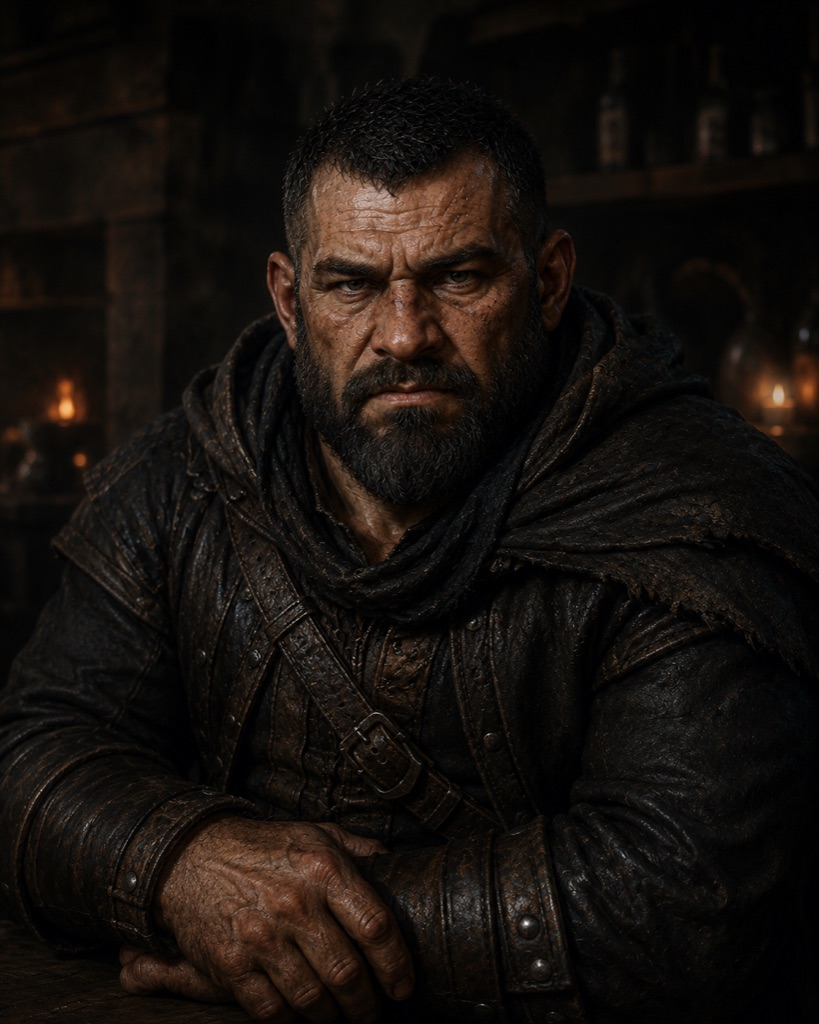
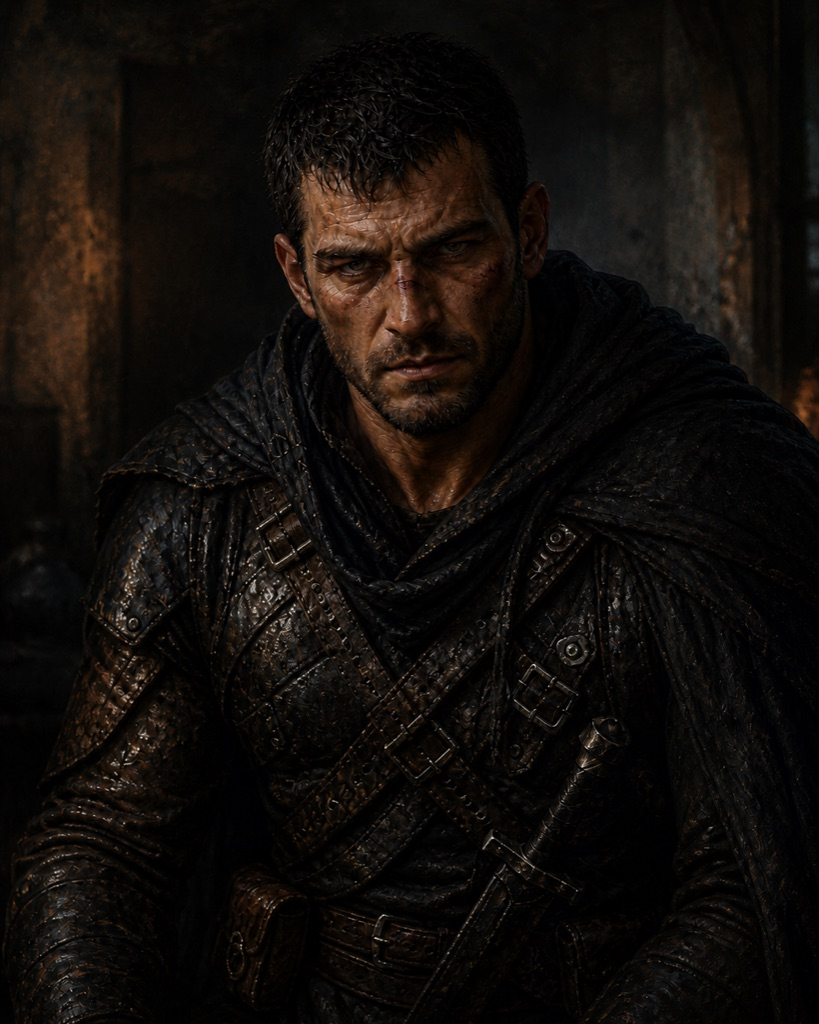
Session 1 (Knaves and Knights): The Manifesto — June 2nd, 2026
Add S1 recap + entities. New: Sorvellans (Kelvaryn, Vendris), House Sorvellan,
La Marginalia, Cobalt, Bobilliath, Celeste, Thrall, Sage, Nonna Battaglia,
Brimstone Bath, Halworth Reading Rooms, College of Divination. Cross-linked PCs.
Garran reworked Dwarf -> Human; new Garran portrait; Ralo + Lucien token portraits.

diff --git a/src/content/recaps/rifthaven-2-session-01.md b/src/content/recaps/rifthaven-2-session-01.md
@@ -1,0 +1,48 @@
+---
+name: "Rifthaven: Knaves and Knights Session 1 — June 2nd, 2026"
+campaign: rifthaven-2
+session_number: 1
+session_date: "June 2nd, 2026"
+author: PaleoDM
+recap_type: dm
+in_game_date: "22nd of Ioun, 1130"
+level_milestone: 3
+arc_name: "The Manifesto"
+vtt_campaign_id: "559871a1-573f-4367-9a16-5a3117a19840"
+tags: [session-one, the-manifesto, heist]
+related: [rifthaven-2, milo-lafite-margeaux, garran, ralo-battaglia, lucien, astrid, kelvaryn-sorvellan, vendris-sorvellan, la-marginalia, house-sorvellan, cobalt, bobilliath, celeste, thrall, sage, nonna-battaglia, brimstone-bath, halworth-reading-rooms, college-of-divination, da-pinci-syndicate, rifthaven]
+---
+
+We opened cold, before we ever met our heroes.
+
+A luxury fighting arena. The rich and the elite up in the boxes, gambling and politicking over their drinks while the crowd roared below. Outside, in the same afternoon light, a young boy was being hanged. Petty larceny, theft, general skulduggery. Rifthaven's regular business. A young scoundrel watched it happen, and an older, wiser hand watched beside him. The boy had been fast, fast enough that nobody should have caught him. The old scoundrel had a different read. "You've always got to stick to the plan, lad. And always bloody communicate. You can't go thinking you're bigger than the crew."
+
+Two rules. The boy on the rope learned'em the hard way.
+
+From there we cut to our heroes, one at a time.
+
+Garran was drinking with a mutual acquaintance, a dwarf with an orange beard and hair named Bobilliath, Bobbi for short. They traded light banter and then got to business, chewing over the strange arcane contraption that had come up out of the Rift, the one that can forge a man's handwriting perfectly. Both of them needed work. Bobbi had heard a job was going down at a bathhouse, the Brimstone Bath, though he couldn't say whether the job was happening there or whether that was just where you went to hear about it. They decided to work it on a buddy system and go together.
+
+Astrid was at her day job, tending her toucans and her chinchillas. Her neighbor came in, a gnomish woman named Celeste who owns the bodega across the way. Celeste talked down to her a little, the way she always does, because she has no idea Astrid's divination is the real thing. Celeste is an astrology junkie. She thinks Astrid's whole act is a sad imitation of her own. She did pass along news worth having. The College of Divination was bleeding members, enough that her own accepted place had to wait. One of the professors had gone missing. Celeste was convined that finding that professor would be her entrance exam. Meanwhile, Astrid was reading a message about a job down at the Brimstone Bath...
+
+Milo was nursing a hangover he is not at all used to. Five centuries a vampire and now he has to drink water like everybody else. His manservant, who insists on being called only Thrall, was there to suffer it with him. The two of them bickered about the water and about the old life neither of them has quite let go. Eventually the talk turned to a job, also at the Brimstone Bath. Milo agreed to go, on the condition that Thrall go ahead and arrange for a patron to invite him in. He does not enter a place uninvited. He told Thrall to go on while he counted to a thousand, who pointedly reminded him that last time Milo tried to count to a thousand he became uncomfortably aware of his own heartbeat. There was a small tantrum.
+
+Lucien was in a more genteel tavern, very well dressed, when a former colleague found him. Sage. Elegant, beautiful, every hair in place. She had a lead she did not care to work herself, the kind of thing she will not dirty her sleeves on. An elderly woman named Nonna Battaglia had come to her about a legal challenge, a mutually agreed separation involving her adult son. Sage was loath to touch it because the Battaglia boy is tangled up with the da Pinci family and she does not meddle in those things. Lucien cut straight to the real shape of the problem. What the boy actually needed was help with his brand and his identity, and that is precisely Lucien's wheelhouse. Sage was glad to have handed it to someone who got it. The Battaglia boy would be waiting at the Brimstone Bath.
+
+And Ralo was in his mother's kitchen, mostly arguing. She wanted a new tennis bracelet and a son who provided better. He pointed out that his four brothers still live at home and contribute nothing. They got into his estranged wife, his petulant little shit of a son, when you follow a recipe and when you don't. They settled nothing. Ralo was livid to learn his Nonna had been soliciting lawyers on his behalf behind his back. She begged and begged him to at least go meet the man at the Brimstone Bath. He reluctantly agreed.
+
+So they all came to the same room, for different reasons. Garran, Astrid, and Milo were there chasing the job. Ralo and Lucien were there for the other business entirely.
+
+Garran and Astrid fell in with Bobbi over a drink, Astrid handling the talking, since communication is her specialty. Demolition too, on occasion, but mostly communication. That is the bread and butter. Across the room, Lucien tried to open his pitch to Ralo and it went nowhere. Ralo had no interest in being represented. He was, however, delighted to report that he had seen Lucien's advertisement in the urinal at Bennigan's, and that the likeness was fantastic, and that the ad clearly worked because here he was remembering the product. Lucien could not tell if he was being trolled. He did not enjoy it either way. About then Thrall arrived and asked Astrid to invite his master in, which she did, and Milo made his entrance.
+
+Then our quest-givers walked in. The Sorvellans, father and son, Kelvaryn and Vendris. The bouncers seemed to be expecting them, and for a moment it looked like the two of them were about to get roughed up. Our heroes moved to intervene. Milo and Lucien are the charming ones, but it was Garran who stepped up, cajoling and leaning on the bouncers until they backed down. That brought out the proprietor herself. Cobalt, a tiefling who runs a tight, neutral house in the turf wars. She recognized Ralo and assumed he was there to pull a job on her. There was a great deal of arguing. It came out that the Sorvellans were simply idiots who hadn't known they were supposed to pay the house to host their meeting. Cobalt had heard there was a job at the Brimstone Bath and, like everyone else, couldn't tell whether that meant a job against the Brimstone Bath. She'd had her bouncers ready. Once the misunderstanding cleared, a couple of coins changed hands, Astrid's coins as it happened, and the party got one of the quiet private rooms on the side.
+
+There the Sorvellans laid out the work. Documents of a personal nature, written by the young master in youthful indiscretion, taken by a woman who had been close to him when she had been his private tutor. They need to be recovered before they reach unkind hands. Kelvaryn would not say much, but he gave up enough. The documents are politically a bad look, and they cannot be allowed to surface, with him set to step into his family's council seat. The woman who took them goes by La Marginalia, though no one offered a real name behind it. Beyond that he held the line. And he was firm on one rule. The documents, bearing his own seal, must be returned before they hit the broadsheet printers. That was the line that made the whole thing feel sensitive. Lucien was in his element, talking through how he'd draft the contract so every term landed just right.
+
+Then the haggling. The Sorvellans offered a hundred gold a head. Our heroes countered at three hundred. They settled at two hundred a head, which, as Garran quietly reminded everyone, is a staggering sum for a crew that is level three. "Holy shit, we have to say yes to that." So naturally they called a huddle and made a show of driving a hard bargain, and in the middle of that huddle, faces close together, they introduced themselves to one another for the first time. Then they took the job.
+
+The Sorvellans lingered, neither willing to be the first one out the door. Lucien finally escorted them. They got as far as the back alley before someone tried to mug them, and our heroes had to step in one more time. Lucien dropped a well-placed Suggestion. Garran and Milo backed it with some genuinely frightening intimidation. Astrid laid down heavy supporting fire on the first round, and Ralo wrecked the man running the whole thing. It did not last past the first round. Several of the muggers turned tail and ran, the Sorvellans were safe, and that was that.
+
+Our heroes walked back into the Brimstone Bath to finish their game of cards and actually get to know each other before the real work begins. Tomorrow they pick up La Marginalia's trail and follow it to the Halworth Reading Rooms, hoping it leads them to the young master Sorvellan's missing papers.
+
+A crew of strangers, two hundred gold a head, and a job that nobody will explain. Not a bad first day.

diff --git a/INDEX.md b/INDEX.md
@@ -1,14 +1,15 @@
 # Ioun's Eye — Codex Index
 <!-- Auto-generated. Do not edit manually. Run `npm run index` to regenerate. -->
-<!-- Last updated: 2026-05-27 -->
+<!-- Last updated: 2026-06-06 -->
 
-## NPCs (143)
+## NPCs (152)
 - `ambrosia` Ambrosia — alive | Guardian of the Restful Lily | [ishetar-2]
 - `arianna-wintar` Arianna Margaster Wintar — imprisoned | High Magister of Kalari
 - `badger-goldenmantle` Badger Goldenmantle — alive
 - `bessa` Bessa — dead | Headservant of Manor Harsk | [ishetar-2]
 - `bilver-shadowgift` Bilver Shadowgift — dead | Former Researcher
 - `biotite` Biotite — unknown | [skt]
+- `bobilliath` Bobilliath — alive | \"Bobbi\"
 - `boreal` Boreal — alive
 - `bran-caldrow` Bran Caldrow — alive | [ishetar-2]
 - `breccia` Breccia — imprisoned | Temple Acolyte
@@ -24,9 +25,11 @@
 - `captain-shara` Captain Shara — alive | Captain
 - `carmen-de-la-alma` Carmen De la Alma — alive
 - `cecil-perile` Cecil Perile — alive | Mayor of New Perile Falls
+- `celeste` Celeste — alive
 - `celia-varynna` Celia Varynna — transformed
 - `chief-guuh` Chief Guuh — dead | Chief of the Hill Giants | [skt]
 - `cliff-tyrell` Cliff — alive | Ty's Father
+- `cobalt` Cobalt — alive
 - `karash` Constable Karash — alive | Constable of New Perile Falls
 - `cyrena` Cyrena — alive | Guardian of the Hot Springs | [ishetar-2]
 - `dalrick-caldrow` Dalrick Caldrow — alive | [ishetar-2]
@@ -70,9 +73,11 @@
 - `jerusha` Jerusha — alive
 - `jora-caldrow` Jora Caldrow — alive | Armory Manager | [ishetar-2]
 - `keeper-vespa-ishetar` Keeper Vespa — alive | Lighthouse Keeper | [ishetar-2]
+- `kelvaryn-sorvellan` Kelvaryn Sorvellan — alive | Patriarch of House Sorvellan
 - `kess-vauthi` Kess Vauthi — alive | Acting Timbermaster | [ishetar-2]
 - `hekkathon` King Hekkathon — alive | King of the Storm Giants | [skt]
 - `kivan-caldrow` Kivan Caldrow — alive | [ishetar-2]
+- `la-marginalia` La Marginalia — missing | The Tutor
 - `lisel-harsk` Lisel Harsk — alive | [ishetar-2]
 - `little-shit` Little Shit — alive
 - `lord-harwin` Lord Harwin Brassfell — alive | Lord of Sparkworks
@@ -94,6 +99,7 @@
 - `mynoa-browbuckle` Mynoa Browbuckle — alive
 - `nanny-pupu` Nanny Pu'Pu — alive | Guardian of Boughshadow
 - `nighthollow` Nighthollow — alive | Queen of Thorns
+- `nonna-battaglia` Nonna Battaglia — alive | Ralo's Mother
 - `officer-oswald` Officer Oswald — dead | Silverweave Ventures Commander
 - `old-hrothgar` Old Hrothgar Earthenstone — alive | Founding Member of Ishetar | [ishetar-2, ishetar-og]
 - `oleg-cassini` Oleg Cassini — dead | Co-Head of the Cassini Brothers
@@ -112,6 +118,7 @@
 - `romero-de-la-alma` Romero De la Alma — alive
 - `rosie` Rosie — alive | Guardian of the Tree of Ambition
 - `runva-doberdower` Runva Doberdower — unknown
+- `sage` Sage — alive
 - `sallow` Sallow — dead | Lieutenant of the TTT | [ishetar-2]
 - `sartori` Sartori — alive | Arcane Outfitter
 - `scourge` Scourge — alive | Plague of the Willows
@@ -133,10 +140,12 @@
 - `great-self` The Great Self — alive | Fungal Hive Mind
 - `the-paintress` The Paintress — alive
 - `the-pallbearer` The Pallbearer — alive | Darklord of Potter's Field
+- `thrall` Thrall — alive | Milo's Manservant
 - `tota-de-la-alma` Tota De la Alma — alive | Matriarch
 - `udo` Udo — alive | Stablemaster of Manor Harsk | [ishetar-2]
 - `vandro-morrix` Vandro Morrix — dead | Owner of the Gilded Ember
 - `vanir-harwich` Vanir Harwich — unknown
+- `vendris-sorvellan` Vendris Sorvellan — alive | Heir to House Sorvellan
 - `verlaine-luthaire` Verlaine Luthaire — missing | Agent of the Celestial Seed | [ishetar-2]
 - `vero` Vero — alive | Alchemist | [ishetar-2]
 - `vespa` Vespa — dead
@@ -147,7 +156,7 @@
 - `zeke` Zeke — alive
 - `zoink` Zoink — alive | Banker | [ishetar-2]
 
-## Locations (72)
+## Locations (75)
 - `ahanabai` Ahanabai — region | [ishetar-2]
 - `aroiinae` Aroiinae — city | [ishetar-2]
 - `ashen-chapel` Ashen Chapel — building | [rifthaven-online]
@@ -194,7 +203,7 @@
 - `poets-point` Poet's Point — city | Kalari
 - `potters-field` Potter's Field — planar | [rifthaven-online]
 - `prusca` Prusca — city | [ishetar-2]
-- `rifthaven` Rifthaven — city | [rifthaven-irl, rifthaven-online]
+- `rifthaven` Rifthaven — city | [rifthaven-irl, rifthaven-online, rifthaven-2]
 - `salvation-district` Salvation District — district | [rifthaven-online]
 - `serenity-auction-house` Serenity Auction House — building | [rifthaven-irl]
 - `sergente-plantation` Sergente Plantation — building | [rifthaven-online]
@@ -207,10 +216,13 @@
 - `amber-expanse` The Amber Expanse — wilderness | Cradle of Conflict | [skt]
 - `the-bastion-sparkworks` The Bastion — building | [rifthaven-online]
 - `brazier` The Brazier — district | [rifthaven-online]
+- `brimstone-bath` The Brimstone Bath — building
+- `college-of-divination` The College of Divination — building
 - `cradle-of-conflict` The Cradle of Conflict — region | [skt]
 - `the-crucible` The Crucible — region | [skt]
 - `fractured-expanse` The Fractured Expanse — wilderness | Ekkorai | [head-hunters]
 - `the-galleria` The Galleria — planar | [rifthaven-online]
+- `halworth-reading-rooms` The Halworth Reading Rooms — building
 - `red-vale` The Red Vale — wilderness | Ekkorai | [ishetar-2]
 - `restful-lily` The Restful Lily — building | Ekkorai | [ishetar-2]
 - `tormellin` Tormellin — city | [ishetar-2]
@@ -221,13 +233,14 @@
 - `verdelorn-woods` Verdelorn Woods — wilderness | [rifthaven-irl]
 - `wanun` Wanun — continent | [ishetar-og, head-hunters, ishetar-2]
 
-## Factions (28)
+## Factions (29)
 - `aquatic-conclave` Aquatic Peoples Conclave — political | active | [ishetar-2]
 - `arsons-of-anarchy` Arsons of Anarchy — religious | active | [head-hunters]
 - `celestial-seed` Celestial Seed — secret | active | [ishetar-2]
 - `children-of-the-defiled-sun` Children of the Defiled Sun — religious | active | [head-hunters]
 - `earthen-loam` Earthen Loam — secret | active | [rifthaven-online]
 - `house-of-coinwrights` House of Coinwrights — commercial | active | [rifthaven-online]
+- `house-sorvellan` House Sorvellan — political | active
 - `knights-of-the-eclipse` Knights of the Eclipse — religious | active | [ishetar-2, kalari]
 - `leviathan-hunters` Leviathan Hunters — commercial | active | [ishetar-2]
 - `order-of-the-ju-shi` Order of the Ju-Shi — religious | active | [rifthaven-irl, rifthaven-online]
@@ -371,7 +384,7 @@ _No entries yet._
 - `elmnack` Elmnack — Dwarf | Ranger | kalari | [kalari]
 - `even` Even — Goliath | Druid | rifthaven-irl | [rifthaven-irl]
 - `freddie` Freddie — Sea Elf | Cleric | rifthaven-online | [rifthaven-online]
-- `garran` Garran — Dwarf | Ranger | rifthaven-2 | [rifthaven-2]
+- `garran` Garran — Human | Ranger | rifthaven-2 | [rifthaven-2]
 - `griffelump` Griffelump — Tabaxi | Wizard | ishetar-og | [ishetar-og]
 - `gwenevere` Gwenevere — Eladrin | Sorcerer | kalari | [kalari]
 - `izlara` Izlara — Human | Ranger | head-hunters | [head-hunters]

diff --git a/src/content/npcs/kelvaryn-sorvellan.md b/src/content/npcs/kelvaryn-sorvellan.md
@@ -1,0 +1,19 @@
+---
+name: Kelvaryn Sorvellan
+status: alive
+title: Patriarch of House Sorvellan
+race: Silver Dragonborn
+faction: house-sorvellan
+location: rifthaven
+campaigns:
+  - rifthaven-2
+first_appearance: "Knaves and Knights, Session 1"
+tags: [noble, old-money, patron, the-manifesto]
+related: [house-sorvellan, vendris-sorvellan, la-marginalia, brimstone-bath, rifthaven-2, rifthaven-2-session-01]
+---
+
+Silver dragonborn patriarch of **House Sorvellan**, old money with the rot of generations of unchecked entitlement. He hired the crew at the **Brimstone Bath** to recover a set of compromising documents written by his son **Vendris** in youthful indiscretion.
+
+Kelvaryn performs dignity in rooms he does not understand. He would not say much, but he gave up enough: the documents are politically a bad look and cannot be allowed to surface, with Vendris set to step into the family's council seat. The woman who took them goes by **La Marginalia**. His firm rule — the papers, bearing his own seal, must be returned before they reach the broadsheet printers.
+
+He treats scoundrels with veiled disgust, and pays anyway. The job came in at 200 gold a head.

diff --git a/src/content/locations/brimstone-bath.md b/src/content/locations/brimstone-bath.md
@@ -1,0 +1,17 @@
+---
+name: The Brimstone Bath
+location_type: building
+parent_location: rifthaven
+campaigns:
+  - rifthaven-2
+tags: [bath-house, neutral-ground, underworld, working-class]
+related: [cobalt, rifthaven, rifthaven-2, rifthaven-2-session-01]
+---
+
+## Description
+
+A working-class bath house in Rifthaven that services rough laborers on their way home from a hard shift, with a bar and smokes for the ones who don't rush off. Run by the tiefling **Cobalt**, who keeps it as neutral ground in the city's turf wars. The back rooms are available for private meetings — *if* you know to pay the house for them.
+
+## Knaves and Knights, Session 1
+
+The whole crew converged here for different reasons — some chasing a job, some there on other business — and met their first patrons, the **Sorvellans**, who hired them to recover Vendris's compromising documents. The Sorvellans' failure to pay for their private room nearly turned into a brawl with Cobalt's bouncers before it was talked down. The party closed the night here over a game of cards.

diff --git a/src/content/factions/house-sorvellan.md b/src/content/factions/house-sorvellan.md
@@ -1,0 +1,15 @@
+---
+name: House Sorvellan
+faction_type: political
+status: active
+leader: kelvaryn-sorvellan
+headquarters: rifthaven
+campaigns:
+  - rifthaven-2
+tags: [noble-house, old-money, council-seat, the-manifesto]
+related: [kelvaryn-sorvellan, vendris-sorvellan, la-marginalia, rifthaven, rifthaven-2, rifthaven-2-session-01]
+---
+
+An old-money noble house of Rifthaven, silver dragonborn, carrying the rot of generations of unchecked entitlement. Led by the patriarch **Kelvaryn Sorvellan**, with his son and heir **Vendris** set to step into the family's hereditary council seat.
+
+The house's first appearance drives the arc **The Manifesto**: a set of politically damaging documents written by Vendris in his youth, bearing his own seal, was taken by the woman known as **La Marginalia**. The Sorvellans hired the crew at the **Brimstone Bath** to recover them before they reach the broadsheet printers — 200 gold a head, no advance.

diff --git a/src/content/npcs/vendris-sorvellan.md b/src/content/npcs/vendris-sorvellan.md
@@ -1,0 +1,17 @@
+---
+name: Vendris Sorvellan
+status: alive
+title: Heir to House Sorvellan
+race: Silver Dragonborn
+faction: house-sorvellan
+location: rifthaven
+campaigns:
+  - rifthaven-2
+first_appearance: "Knaves and Knights, Session 1"
+tags: [noble, heir, council-seat, the-manifesto, honeypot]
+related: [house-sorvellan, kelvaryn-sorvellan, la-marginalia, rifthaven-2, rifthaven-2-session-01]
+---
+
+The adult son and heir of **House Sorvellan**, silver dragonborn, recently of age and set to step into the family's hereditary council seat. As a younger man he wrote a set of documents — politically a bad look — that were taken by **La Marginalia**, a woman who had been close to him when she served as his private tutor.
+
+Vendris attended the hire at the **Brimstone Bath** alongside his father **Kelvaryn**. Earnest and out of his depth among scoundrels. The documents that could destroy his appointment bear his own seal.

diff --git a/src/content/npcs/sage.md b/src/content/npcs/sage.md
@@ -1,0 +1,14 @@
+---
+name: Sage
+status: alive
+location: rifthaven
+campaigns:
+  - rifthaven-2
+first_appearance: "Knaves and Knights, Session 1"
+tags: [fixer, broker, former-colleague, white-collar]
+related: [lucien, nonna-battaglia, da-pinci-syndicate, rifthaven-2, rifthaven-2-session-01]
+---
+
+A former colleague of **Lucien**'s — elegant, beautiful, every hair in place, and unwilling to dirty her sleeves on the wrong kind of work. She brokers leads she does not care to run herself.
+
+She handed Lucien the **Battaglia** matter: **Nonna Battaglia** had come to her seeking help with a legal challenge around her son's mutually agreed separation. Sage was loath to touch it because the Battaglia boy is tangled up with the **da Pinci** family. She was glad to pass it to someone who understood the real shape of the problem — the boy's brand and identity — and sent Lucien to the **Brimstone Bath** to meet him.

diff --git a/src/content/npcs/cobalt.md b/src/content/npcs/cobalt.md
@@ -1,0 +1,16 @@
+---
+name: Cobalt
+status: alive
+race: Tiefling
+location: rifthaven
+faction: brimstone-bath
+campaigns:
+  - rifthaven-2
+first_appearance: "Knaves and Knights, Session 1"
+tags: [proprietor, neutral-ground, brimstone-bath, underworld]
+related: [brimstone-bath, ralo-battaglia, rifthaven-2, rifthaven-2-session-01]
+---
+
+Tiefling proprietor of the **Brimstone Bath**, a working-class bath house she runs as neutral ground in the city's turf wars. Pragmatic and unflappable, she keeps a tight room and a ready set of bouncers.
+
+When the Sorvellans turned up at her bath without paying for use of a private meeting room, Cobalt assumed she was being hit — she recognized **Ralo Battaglia** and figured a job was being pulled on her. The misunderstanding was talked down, a couple of coins (Astrid's, as it happened) changed hands, and the party got their private room. Cobalt remembers faces and debts.

diff --git a/src/content/npcs/nonna-battaglia.md b/src/content/npcs/nonna-battaglia.md
@@ -1,0 +1,17 @@
+---
+name: Nonna Battaglia
+status: alive
+title: Ralo's Mother
+race: Halfling
+location: rifthaven
+faction: da-pinci-syndicate
+campaigns:
+  - rifthaven-2
+first_appearance: "Knaves and Knights, Session 1"
+tags: [family, matriarch, da-pinci, safe-house]
+related: [ralo-battaglia, sage, lucien, da-pinci-syndicate, rifthaven-2, rifthaven-2-session-01]
+---
+
+**Ralo Battaglia**'s elderly mother, whose apartment doubles as his safe house. She wants a new tennis bracelet and a son who provides better, and she catalogues his failings without breaking stride — his weight, his estranged wife, his refusal to climb the ladder.
+
+Behind Ralo's back she has been soliciting lawyers on his behalf over his separation, which is how the matter reached **Sage** and, through her, **Lucien**. She begged Ralo to go meet the lawyer at the **Brimstone Bath**, and he reluctantly went.

diff --git a/src/content/npcs/la-marginalia.md b/src/content/npcs/la-marginalia.md
@@ -1,0 +1,16 @@
+---
+name: La Marginalia
+status: missing
+title: The Tutor
+race: Unknown
+location: rifthaven
+campaigns:
+  - rifthaven-2
+first_appearance: "Knaves and Knights, Session 1 (referenced)"
+tags: [the-manifesto, code-name, tutor, missing, antagonist-unclear]
+related: [vendris-sorvellan, kelvaryn-sorvellan, house-sorvellan, halworth-reading-rooms, rifthaven-2, rifthaven-2-session-01]
+---
+
+A woman known only by the code name **La Marginalia**. No real name was offered behind it. She had been close to **Vendris Sorvellan** when she served as his private tutor, and at some point took the compromising documents now at the center of the crew's first job.
+
+As of Session 1 she is a name and a trail, nothing more. The crew's first lead points toward the **Halworth Reading Rooms**. Whether she is antagonist, ally, or simply absent is an open question.

diff --git a/src/content/npcs/celeste.md b/src/content/npcs/celeste.md
@@ -1,0 +1,15 @@
+---
+name: Celeste
+status: alive
+race: Gnome
+location: rifthaven
+campaigns:
+  - rifthaven-2
+first_appearance: "Knaves and Knights, Session 1"
+tags: [neighbor, bodega-owner, astrology, comic-foil]
+related: [astrid, college-of-divination, rifthaven-2, rifthaven-2-session-01]
+---
+
+A gnomish woman who owns the bodega across the way from **Astrid**'s shop. An astrology junkie who has no idea Astrid's divination is the real thing — she thinks Astrid's whole act is a sad imitation of her own, and talks down to her accordingly.
+
+Despite herself, Celeste passes along useful news: the **College of Divination** is bleeding members, enough that her own accepted place there has to wait, and one of the professors has gone missing. She's convinced that finding the professor will be her entrance exam.

diff --git a/src/content/npcs/thrall.md b/src/content/npcs/thrall.md
@@ -1,0 +1,15 @@
+---
+name: Thrall
+status: alive
+title: Milo's Manservant
+location: rifthaven
+campaigns:
+  - rifthaven-2
+first_appearance: "Knaves and Knights, Session 1"
+tags: [manservant, retainer, comic-foil, vampire-adjacent]
+related: [milo-lafite-margeaux, brimstone-bath, rifthaven-2, rifthaven-2-session-01]
+---
+
+**Milo**'s long-suffering manservant, who insists on being called only *Thrall* — a holdover from the old vampire life neither he nor his master has quite let go of. Dry, patient, and used to suffering Milo's moods.
+
+At the **Brimstone Bath** it was Thrall who went ahead to arrange for a patron to invite Milo in, since Milo will not enter a place uninvited. He asked **Astrid** to extend the invitation, and Milo made his entrance.
